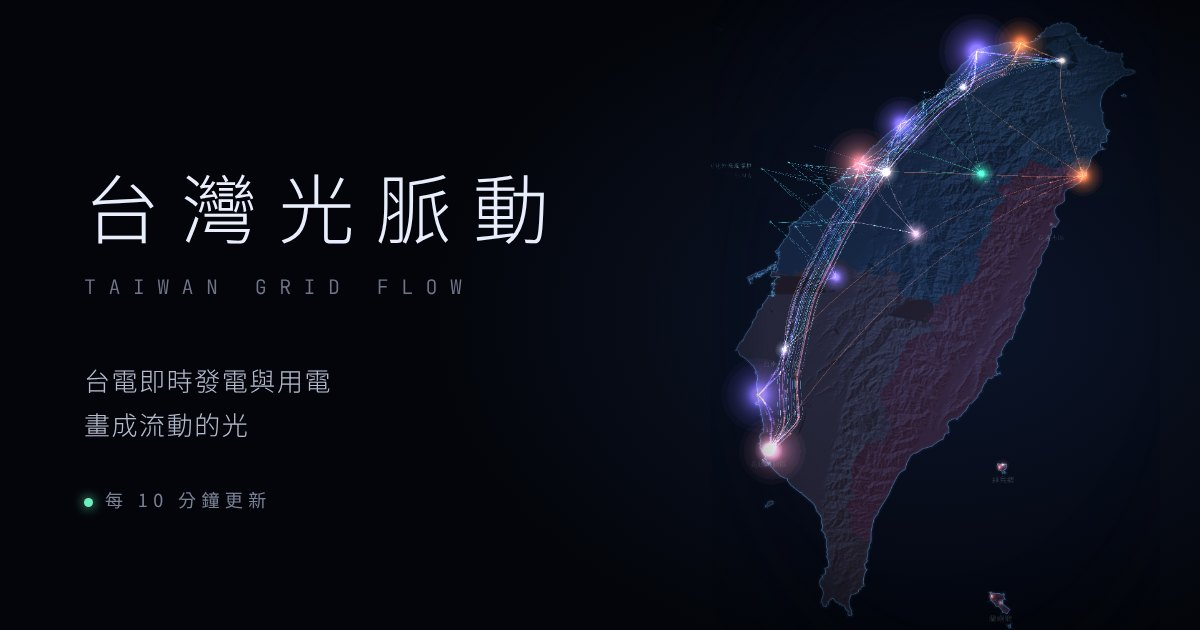
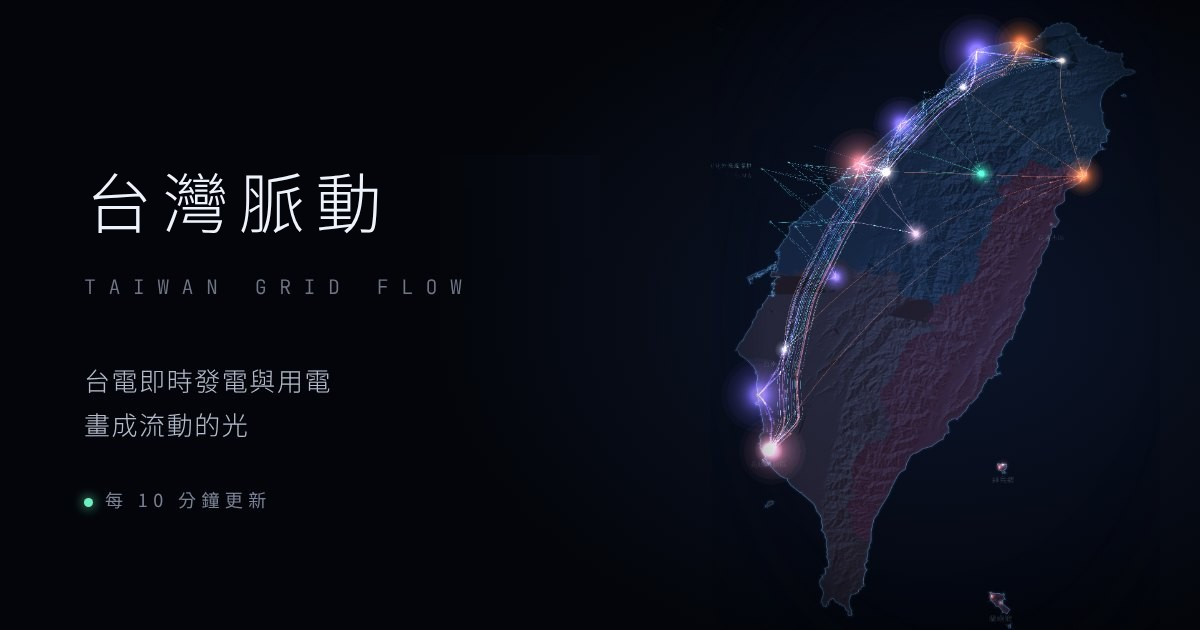
v0.8.53：名稱改「台灣脈動」（網頁、主畫面名稱、分享圖、通知標題；中繼站 v8.10 程式）
Claude-Session: https://claude.ai/code/session_014gXWXz6mvYnkLaWxuaAqJq

Changed region(s): [[0.0617, 0.2714, 0.37, 0.3921], [0.4008, 0.2714, 0.4625, 0.3921]]

diff --git a/tools/cloudflare-worker.js b/tools/cloudflare-worker.js
@@ -1,5 +1,6 @@
 // ─────────────────────────────────────────────────────────────
-//  台灣光脈動 — Cloudflare Worker 中繼站 v8.9
+//  台灣脈動 — Cloudflare Worker 中繼站 v8.10
+//  v8.10：名稱改「台灣脈動」（推播、LINE 訊息）
 //  v8.9：/water/tainan-pipes.json 轉送臺南市「公共管線圖資－給水系統管線」（soa.tainan.gov.tw 擋海外主機；給 Actions 定期轉檔用）
 //  v8.8：低碳時段通知（訂閱 lowc）：每天依昨日燃料別曲線推估 07–22 點最低碳的 2 小時，時段開始時發 App 通知（中英）
 //  v8.7：App 通知依訂閱語言（lang：zh／en）發中文或英文；網頁換語言時會重新登記
@@ -119,11 +120,11 @@ export default {
       const text = `⚡ 今日供電${sup.label}，尖峰預估備轉 ${sup.rate}%（${sup.hours}）。建議尖峰時段減少用電。`;
       if (users.length && !(await env.NOTIFY.get(`${today}:supply`))) {
         const to = users.filter((u) => u.supply !== false).map((u) => u.id);
-        if (await send(env, to, `台灣光脈動 ${text}`)) await env.NOTIFY.put(`${today}:supply`, '1', { expirationTtl: 2 * 86400 });
+        if (await send(env, to, `台灣脈動 ${text}`)) await env.NOTIFY.put(`${today}:supply`, '1', { expirationTtl: 2 * 86400 });
       }
       if (subs.length && !(await env.NOTIFY.get(`${today}:psupply`))) {
         const en = { title: 'Taiwan Grid Flow · Supply alert', body: `⚡ Taiwan’s power supply today: ${sup.labelEn}. Forecast peak operating reserve ${sup.rate}% (${sup.hours}). Please use less power during the peak.` };
-        await pushAll(env, subs.filter((p) => p.alerts !== false), (p) => (p.lang === 'en' ? en : { title: '台灣光脈動・供電提醒', body: text })); // v7：只訂停電提醒的不收
+        await pushAll(env, subs.filter((p) => p.alerts !== false), (p) => (p.lang === 'en' ? en : { title: '台灣脈動・供電提醒', body: text })); // v7：只訂停電提醒的不收
         await env.NOTIFY.put(`${today}:psupply`, '1', { expirationTtl: 2 * 86400 });
       }
     }
@@ -140,7 +141,7 @@ export default {
       if (!win.none && hm >= win.from && hm < win.to) {
         await pushAll(env, lowSubs, (p) => (p.lang === 'en'
           ? { title: 'Taiwan Grid Flow · Low-carbon window', body: `🌿 Electricity should be cleanest from now until about ${win.to} (estimated from the same hours yesterday). A good time for laundry, the dryer or charging.` }
-          : { title: '台灣光脈動・低碳時段', body: `🌿 現在到 ${win.to} 左右電力碳排較低（依昨天同時段推估），適合洗衣、烘衣、充電。` }));
+          : { title: '台灣脈動・低碳時段', body: `🌿 現在到 ${win.to} 左右電力碳排較低（依昨天同時段推估），適合洗衣、烘衣、充電。` }));
         await env.NOTIFY.put(`${today}:plowc`, '1', { expirationTtl: 2 * 86400 });
       }
     }
@@ -159,7 +160,7 @@ export default {
       if (!targets.length || (await env.NOTIFY.get(key))) continue;
       await pushAll(env, targets, (p) => (p.lang === 'en'
         ? { title: 'Taiwan Grid Flow · Air quality', body: `😷 ${x.site} station AQI ${x.aqi} (${AQI_EN[x.status] || x.status}), PM2.5 ${x.pm25 ?? '—'}. Sensitive groups should limit time outdoors; consider a mask.` }
-        : { title: '台灣光脈動・空品提醒', body: aqiText(x) }));
+        : { title: '台灣脈動・空品提醒', body: aqiText(x) }));
       await env.NOTIFY.put(key, '1', { expirationTtl: 2 * 86400 });
     }
 
@@ -169,7 +170,7 @@ export default {
       const ids = users.filter((u) => u.site === site && u.aqi !== false).map((u) => u.id);
       const key = `${today}:aqi:${site}`;
       if (!ids.length || (await env.NOTIFY.get(key))) continue;
-      if (await send(env, ids, `台灣光脈動 ${aqiText(x)}`)) await env.NOTIFY.put(key, '1', { expirationTtl: 2 * 86400 });
+      if (await send(env, ids, `台灣脈動 ${aqiText(x)}`)) await env.NOTIFY.put(key, '1', { expirationTtl: 2 * 86400 });
     }
   }
 };
@@ -277,7 +278,7 @@ async function pushRoute(req, env, name) {
   await kvPutJson(env, key, { sub: { endpoint: sub.endpoint, keys: { p256dh: sub.keys.p256dh, auth: sub.keys.auth } }, site: alerts ? site : null, alerts, town, road, outage, lang, lowc, since: twDate() });
   if (body.test) await pushOne(env, sub, lang === 'en'
     ? { title: 'Taiwan Grid Flow', body: `Notifications are on${site ? ` (${site} station)` : ''}. We’ll let you know when air quality is poor or power supply is tight.` }
-    : { title: '台灣光脈動', body: `App 通知已開啟${site ? `（${site}測站）` : ''}，空品不良或供電吃緊時會通知你。` });
+    : { title: '台灣脈動', body: `App 通知已開啟${site ? `（${site}測站）` : ''}，空品不良或供電吃緊時會通知你。` });
   return json({ ok: true, site, town, outage, lang });
 }
 
@@ -357,7 +358,7 @@ async function verify(env, body, sig) {
   return btoa(String.fromCharCode(...new Uint8Array(mac))) === sig;
 }
 
-const HELP = `台灣光脈動 提醒小幫手 ⚡
+const HELP = `台灣脈動 提醒小幫手 ⚡
 
 📍 傳「測站名稱」登記你家附近的空品測站，例如：西屯、二林、忠明
 
@@ -371,7 +372,7 @@ const HELP = `台灣光脈動 提醒小幫手 ⚡
 ・「停止」不再通知
 
 空品 AQI ≥ 101（對人體有害）或供電非綠燈才通知，每天最多一次，只在 07–22 點發送。
-📲 想收更多免費通知：在光脈搏 App「我的家 → 提醒」開啟 App 通知。`;
+📲 想收更多免費通知：在台灣脈動 App「我的家 → 提醒」開啟 App 通知。`;
 
 async function lineWebhook(req, env, ctx) {
   const body = await req.text();
@@ -587,9 +588,9 @@ async function watchdog(env) {
     }
     const flag = await env.NOTIFY.get(`watch:${k}`);
     if (hit && !flag) {
-      if (await send(env, [env.LINE_TO], `⚠ 台灣光脈動 資料停更：${hit[1]}`)) await env.NOTIFY.put(`watch:${k}`, '1', { expirationTtl: 6 * 3600 });
+      if (await send(env, [env.LINE_TO], `⚠ 台灣脈動 資料停更：${hit[1]}`)) await env.NOTIFY.put(`watch:${k}`, '1', { expirationTtl: 6 * 3600 });
     } else if (!hit && flag) {
-      await send(env, [env.LINE_TO], `✅ 台灣光脈動：${{ grid: '台電機組資料', aqi: '環境部空品', format: '台電資料格式' }[k]}已恢復正常`);
+      await send(env, [env.LINE_TO], `✅ 台灣脈動：${{ grid: '台電機組資料', aqi: '環境部空品', format: '台電資料格式' }[k]}已恢復正常`);
       await env.NOTIFY.delete(`watch:${k}`);
     }
   }
@@ -737,7 +738,7 @@ async function errorAlerts(env) {
     if (g.n < (severe ? 1 : 3)) continue;
     const flag = `erralert:${day}:${k}`;
     if (await env.NOTIFY.get(flag)) continue;
-    const ok = await send(env, [env.LINE_TO], `⚠ 台灣光脈動 網站錯誤（今天 ${g.n} 次）\n版本 v${g.v}・${g.where}・${g.device}\n${g.msg}\n\n傳「錯誤紀錄」看最近 7 天`);
+    const ok = await send(env, [env.LINE_TO], `⚠ 台灣脈動 網站錯誤（今天 ${g.n} 次）\n版本 v${g.v}・${g.where}・${g.device}\n${g.msg}\n\n傳「錯誤紀錄」看最近 7 天`);
     if (ok) await env.NOTIFY.put(flag, '1', { expirationTtl: 2 * 86400 });
   }
 }
@@ -777,7 +778,7 @@ async function feedbackRoute(req, env, ctx) {
   // 每天前 10 則用 LINE 通知管理者（主動推播有每月上限，其餘傳「回饋」查）
   if (env.LINE_TOKEN && env.LINE_TO && n < 10) {
     const info = e.ctx ? `\nv${e.ctx.v}・${e.ctx.device === 'mobile' ? '手機' : '電腦'}・${e.ctx.lang === 'en' ? '英文' : '中文'}${e.ctx.view ? `・${e.ctx.view}` : ''}` : '';
-    ctx.waitUntil(send(env, [env.LINE_TO], `💬 台灣光脈動 意見回饋（${FB_KIND[e.kind]}）\n${text}${e.contact ? `\n聯絡：${e.contact}` : ''}${info}\n\n傳「回饋」看最近 7 天`).catch(() => {}));
+    ctx.waitUntil(send(env, [env.LINE_TO], `💬 台灣脈動 意見回饋（${FB_KIND[e.kind]}）\n${text}${e.contact ? `\n聯絡：${e.contact}` : ''}${info}\n\n傳「回饋」看最近 7 天`).catch(() => {}));
   }
   return json({ ok: true });
 }
@@ -824,8 +825,8 @@ async function errorSummary(env, days) {
  *  GitHub Actions 每小時用真實資料打開網站；失敗才呼叫 /alert?type=site
  *  只接受固定幾種類型、訊息內容寫死在這裡；同一類型 3 小時內只通知一次 */
 const ALERTS = {
-  site: '⚠ 台灣光脈動 每小時檢查失敗：正式網站用真實資料打開時出錯，詳見 GitHub Actions「健康檢查」',
-  data: '⚠ 台灣光脈動 每小時檢查：網站上的台電資料超過 1 小時沒更新，詳見 GitHub Actions「健康檢查」'
+  site: '⚠ 台灣脈動 每小時檢查失敗：正式網站用真實資料打開時出錯，詳見 GitHub Actions「健康檢查」',
+  data: '⚠ 台灣脈動 每小時檢查：網站上的台電資料超過 1 小時沒更新，詳見 GitHub Actions「健康檢查」'
 };
 async function alertRoute(url, env) {
   const type = url.searchParams.get('type');
@@ -933,7 +934,7 @@ async function outageDaily(env) {
       const where = `${p.town}${roads.length ? ` ${roads.slice(0, 4).join('、')}${roads.length > 4 ? ` 等 ${roads.length} 處` : ''}` : ''}`;
       await pushOne(env, p.sub, p.lang === 'en'
         ? { title: 'Taiwan Grid Flow · Planned outage', body: `${n === 1 ? 'Tomorrow' : 'In 3 days'}, ${'Sun Mon Tue Wed Thu Fri Sat'.split(' ')[wd]} ${md}, ${times}: planned power outage in ${p.town}${roads.length ? ` (${roads.slice(0, 4).join(', ')}${roads.length > 4 ? ` and ${roads.length - 4} more` : ''})` : ''}. Taipower’s notice is authoritative; call 1911 for details.` }
-        : { title: '台灣光脈動・計畫停電提醒', body: `${when}，${where}有計畫性停電（${hits[0].office}）。實際範圍以台電通知為準，可撥 1911 查詢。` });
+        : { title: '台灣脈動・計畫停電提醒', body: `${when}，${where}有計畫性停電（${hits[0].office}）。實際範圍以台電通知為準，可撥 1911 查詢。` });
     }
   }
 }

diff --git a/index.html b/index.html
@@ -4,19 +4,19 @@
     <meta charset="UTF-8" />
     <meta name="viewport" content="width=device-width, initial-scale=1, viewport-fit=cover, user-scalable=no" />
     <meta name="theme-color" content="#03050a" />
-    <meta name="description" content="台灣光脈動：台電即時發電與用電，畫成流動的光。每 10 分鐘更新。" />
+    <meta name="description" content="台灣脈動：台電即時發電與用電，畫成流動的光。每 10 分鐘更新。" />
     <meta name="apple-mobile-web-app-capable" content="yes" />
     <meta name="mobile-web-app-capable" content="yes" />
     <meta name="apple-mobile-web-app-status-bar-style" content="black-translucent" />
-    <meta name="apple-mobile-web-app-title" content="光脈動" />
+    <meta name="apple-mobile-web-app-title" content="台灣脈動" />
     <link rel="manifest" href="./manifest.webmanifest" />
     <link rel="icon" type="image/png" sizes="192x192" href="./icon-192.png" />
     <link rel="apple-touch-icon" href="./apple-touch-icon.png" />
-    <title>台灣光脈動 · Taiwan Grid Flow</title>
+    <title>台灣脈動 · Taiwan Grid Flow</title>
     <!-- 分享到 LINE／Facebook／X 時的預覽 -->
     <meta property="og:type" content="website" />
-    <meta property="og:site_name" content="台灣光脈動" />
-    <meta property="og:title" content="台灣光脈動 · Taiwan Grid Flow" />
+    <meta property="og:site_name" content="台灣脈動" />
+    <meta property="og:title" content="台灣脈動 · Taiwan Grid Flow" />
     <meta property="og:description" content="台電即時發電與用電，畫成流動的光。每 10 分鐘更新。" />
     <meta property="og:url" content="https://willy110611-collab.github.io/taiwan-grid-flow/" />
     <meta property="og:image" content="https://willy110611-collab.github.io/taiwan-grid-flow/og-image.jpg" />
@@ -59,7 +59,7 @@
         <path d="M184.6 36.7L177.6 41.3L171.9 50.8L171.1 58.5L173.0 63.4L173.2 69.4L174.8 73.3L177.3 75.0L176.1 75.3L176.0 81.9L173.0 83.8L175.1 86.9L171.3 88.8L169.6 91.6L166.8 104.3L164.2 109.0L156.9 115.6L156.9 121.5L152.8 126.0L152.8 129.7L155.5 134.1L151.8 139.0L150.9 149.3L146.5 163.3L142.2 183.0L143.2 186.3L138.8 202.8L135.8 206.2L134.6 212.4L132.5 214.5L132.8 221.5L135.0 222.4L129.4 225.6L125.8 235.6L120.7 243.9L117.5 248.6L113.7 250.0L114.5 255.4L112.3 259.1L98.5 269.4L86.5 301.5L85.8 322.1L87.2 324.4L87.1 331.7L82.1 336.3L81.6 339.4L84.0 344.9L82.5 345.4L79.9 341.6L74.6 339.1L72.3 343.1L69.6 341.6L70.0 337.1L67.3 332.5L70.1 324.5L63.2 304.4L58.2 298.1L46.6 291.1L44.2 288.2L40.8 287.3L34.4 282.7L34.7 281.6L33.2 283.5L31.0 280.6L34.0 282.2L28.0 273.2L28.7 266.6L24.3 254.6L22.0 253.6L23.6 252.7L19.1 237.5L7.0 228.2L16.6 196.5L18.9 197.0L19.6 195.7L18.3 194.4L18.5 189.5L16.8 189.8L18.8 185.9L20.1 185.8L15.5 185.5L15.5 183.3L17.9 183.2L18.3 181.8L17.2 171.5L16.0 172.9L15.1 171.6L19.8 160.8L18.9 156.5L20.2 154.3L27.9 145.6L30.5 139.5L35.3 133.4L35.7 129.0L39.8 126.2L43.5 116.7L47.5 113.6L52.5 103.4L65.5 86.6L70.1 74.9L75.9 68.7L79.9 67.7L83.0 64.7L86.8 58.5L86.3 55.8L88.2 49.6L90.9 47.8L100.9 30.6L118.1 22.7L126.1 22.6L131.8 20.2L137.6 9.7L145.3 5.0L152.7 7.2L157.5 14.7L160.4 13.2L158.9 16.0L161.0 18.5L170.0 20.1L169.7 21.4L171.8 21.4L171.5 22.9L180.9 22.0L179.9 26.5L181.5 31.4L188.4 33.8L184.6 36.7Z" />
         <path class="spine" d="M66 300 C 50 270, 38 235, 42 200 S 66 120, 104 66 S 148 30, 166 24" />
       </svg>
-      <div class="zh">台灣光脈動</div>
+      <div class="zh">台灣脈動</div>
       <div class="en">TAIWAN GRID FLOW</div>
       <div class="st" id="splash-st">連線台電即時資料…</div>
     </div>

diff --git a/src/data/useHome.js b/src/data/useHome.js
@@ -56,7 +56,7 @@ export function locate(setHome) {
 }
 
 /**
- * 網頁通知：開著光脈動（含桌布、手機加到主畫面）時，事件發生就跳系統通知。
+ * 網頁通知：開著台灣脈動（含桌布、手機加到主畫面）時，事件發生就跳系統通知。
  * 每種事件每天最多一次。完全關閉 App 後的提醒請用 LINE（Cloudflare 排程）。
  */
 export function useNotify(enabled, events) {
@@ -72,7 +72,7 @@ export function useNotify(enabled, events) {
       if (sent.current.has(key) || stored) continue;
       sent.current.add(key);
       try { localStorage.setItem(`tgf-notified-${key}`, '1'); } catch { /* 略 */ }
-      try { new Notification('台灣光脈動', { body: ev.text, icon: './icon-192.png', tag: ev.kind }); } catch { /* 部分瀏覽器只允許 Service Worker 通知 */ }
+      try { new Notification('台灣脈動', { body: ev.text, icon: './icon-192.png', tag: ev.kind }); } catch { /* 部分瀏覽器只允許 Service Worker 通知 */ }
     }
   }, [enabled, events]);
 }
@@ -90,7 +90,7 @@ const urlB64 = (s) => Uint8Array.from(atob(s.replace(/-/g, '+').replace(/_/g, '/
 
 export function pushSupport() {
   if (!('serviceWorker' in navigator)) return { ok: false, why: '此瀏覽器不支援 App 通知' };
-  if (isIOS() && !standalone()) return { ok: false, why: 'iPhone 要先用 Safari「分享 → 加入主畫面」，再從主畫面打開光脈動開啟（iOS 16.4 以上）', ios: true };
+  if (isIOS() && !standalone()) return { ok: false, why: 'iPhone 要先用 Safari「分享 → 加入主畫面」，再從主畫面打開台灣脈動開啟（iOS 16.4 以上）', ios: true };
   if (!('PushManager' in window) || typeof Notification === 'undefined') return { ok: false, why: '此瀏覽器不支援 App 通知' };
   return { ok: true };
 }

diff --git a/src/i18n.js b/src/i18n.js
@@ -130,7 +130,7 @@ const EN = {
   '通知權限未允許': 'Notification permission not granted', '通知服務暫時無法使用，請稍後再試': 'Notifications are temporarily unavailable; please try again later',
   '通知權限未允許（可到手機設定 → 通知 開啟）': 'Notification permission not granted (enable it in your phone’s Settings → Notifications)',
   '此瀏覽器不支援 App 通知': 'This browser does not support app notifications',
-  'iPhone 要先用 Safari「分享 → 加入主畫面」，再從主畫面打開光脈動開啟（iOS 16.4 以上）': 'On iPhone, use Safari Share → Add to Home Screen first, then open the app from the Home Screen to turn this on (iOS 16.4+)',
+  'iPhone 要先用 Safari「分享 → 加入主畫面」，再從主畫面打開台灣脈動開啟（iOS 16.4 以上）': 'On iPhone, use Safari Share → Add to Home Screen first, then open the app from the Home Screen to turn this on (iOS 16.4+)',
   '示範模式（模擬資料）': 'Demo mode (simulated data)',
   '日射量資料不足或過舊': 'Solar radiation data missing or stale',
   '讀不到最新 · 顯示': 'No new data · showing', '電廠': 'Plants', '更多': 'More', '店家用電試算': 'Shop energy', '今日紀錄': 'Today’s records', '收集成就': 'Collectibles', '說明・資料來源': 'Guide & sources', '電腦版': 'Desktop', '線路：示意': 'Lines: schematic', '背景音：開': 'Sound: on', '背景音：關': 'Sound: off', '震動：開': 'Vibration: on', '震動：關': 'Vibration: off', '意見回饋': 'Feedback', '線路：真實': 'Lines: real', '光流路線：真實輸電線（OpenStreetMap）或示意光纖': 'Flow routes: real transmission lines (OpenStreetMap) or schematic',

diff --git a/src/components/Life.jsx b/src/components/Life.jsx
@@ -245,7 +245,7 @@ export function HomePanel({ home, setHome, sum, advice, snapshot, air, onPick, o
             <span>{tx('低碳時段開始時也通知（每天一次，依昨天同時段推估最低碳的 2 小時）', 'Also notify when the low-carbon window starts (once a day; the cleanest 2 hours estimated from yesterday)')}</span>
           </label>
         )}
-        {!home.push && pushSupport().ios && <p className="fine">{tx('iPhone：Safari「分享 → 加入主畫面」後，從主畫面打開光脈動再開啟這個開關。', 'iPhone: in Safari tap Share → Add to Home Screen, open the app from the Home Screen, then turn this on.')}</p>}
+        {!home.push && pushSupport().ios && <p className="fine">{tx('iPhone：Safari「分享 → 加入主畫面」後，從主畫面打開台灣脈動再開啟這個開關。', 'iPhone: in Safari tap Share → Add to Home Screen, open the app from the Home Screen, then turn this on.')}</p>}
 
         {/* LINE */}
         {line?.lineFriendUrl && (
@@ -267,7 +267,7 @@ export function HomePanel({ home, setHome, sum, advice, snapshot, air, onPick, o
               try { await requestNotify(); setHome({ notify: true }); setMsg(''); } catch (err) { setMsg(tr(err.message)); }
             }}
           />
-          <span>{tx('開著光脈動時另外提醒：機組異常、低碳時段開始', 'While the app is open, also alert me to unit anomalies and the start of low-carbon periods')}</span>
+          <span>{tx('開著台灣脈動時另外提醒：機組異常、低碳時段開始', 'While the app is open, also alert me to unit anomalies and the start of low-carbon periods')}</span>
         </label>
       </section>
     </Panel>

diff --git a/src/components/Hud.jsx b/src/components/Hud.jsx
@@ -114,7 +114,7 @@ export default function Hud({ snapshot, ui, waterUi, setUi, highlights, daylight
     <div className={`hud ${wallpaper ? 'is-wallpaper' : ''} ${W ? 'water-mode' : ''}`}>
       {!wallpaper && waterUi?.enabled && <ModeSwitch water={W} onChange={(on) => { setMore(false); waterUi.setWater(on); }} />}
       <header className="brand">
-        <div className="brand-zh">台灣光脈動</div>
+        <div className="brand-zh">台灣脈動</div>
         <div className="brand-en">TAIWAN GRID FLOW</div>
         <div className={`badge ${live ? 'live' : 'sim'}`}>
           <i />
@@ -128,7 +128,7 @@ export default function Hud({ snapshot, ui, waterUi, setUi, highlights, daylight
         )}
         {!wallpaper && <RefreshBtn />}
         {!wallpaper && live && !replay?.on && Number.isFinite(snapshot?.online) && snapshot.online > 0 && (
-          <div className="online-count" title={tx('最近 12 分鐘有開著光脈動的分頁數', 'Tabs with Taiwan Grid Flow open in the last 12 minutes')}>
+          <div className="online-count" title={tx('最近 12 分鐘有開著台灣脈動的分頁數', 'Tabs with Taiwan Grid Flow open in the last 12 minutes')}>
             {snapshot.online === 1 ? tx('目前只有你在線', 'Only you online') : tx(`${snapshot.online.toLocaleString()} 人同時在線`, `${snapshot.online.toLocaleString()} online now`)}
           </div>
         )}

diff --git a/src/components/Extras.jsx b/src/components/Extras.jsx
@@ -110,7 +110,7 @@ export function BadgePanel({ badges, live, onClose }) {
   const { earned, progress } = badges;
   const count = BADGES.filter((b) => earned[b.id]).length;
   const toggle = (id) => { setHover(null); setSel((cur) => (cur === id ? null : id)); };
-  const groups = [['grid', tx('電網徽章', 'Grid badges'), tx('真實電網出現這個狀態的當下打開才拿得到', 'Earned only when the real grid is in that state while the app is open')], ['explore', tx('探索徽章', 'Explorer badges'), tx('使用光脈動的各種方式', 'Ways to use the app')]];
+  const groups = [['grid', tx('電網徽章', 'Grid badges'), tx('真實電網出現這個狀態的當下打開才拿得到', 'Earned only when the real grid is in that state while the app is open')], ['explore', tx('探索徽章', 'Explorer badges'), tx('使用台灣脈動的各種方式', 'Ways to use the app')]];
   return (
     <Panel title="徽章簿" meta={`${count} / ${BADGES.length}`} onClose={onClose}>
       {!live && <p className="fine warm">{tx('目前是模擬資料，電網徽章暫停頒發（接上台電即時資料後才會取得）。', 'Simulated data — grid badges are paused until live Taipower data is connected.')}</p>}

diff --git a/public/sw.js b/public/sw.js
@@ -1,6 +1,6 @@
 // 離線快取：頁面與程式用「先上網、失敗再用快取」，所以一鍵更新後重開就是新版。
 // 電力資料（data/、taipower/）永遠走網路，不快取，避免看到舊數字。
-const CACHE = 'tgf-v0.8.52';
+const CACHE = 'tgf-v0.8.53';
 const SHELL = ['./', './index.html', './manifest.webmanifest', './icon-192.png', './icon-512.png', './apple-touch-icon.png'];
 self.addEventListener('install', (e) => {
   // 連同首頁用到的程式檔一起先存好 → 第二次打開就完全不用下載
@@ -56,7 +56,7 @@ self.addEventListener('fetch', (e) => {
 
 // ── App 通知（Web Push）：中繼站在空品不良、供電吃緊時送來 ──
 self.addEventListener('push', (e) => {
-  let msg = { title: '台灣光脈動', body: '' };
+  let msg = { title: '台灣脈動', body: '' };
   try { msg = { ...msg, ...e.data.json() }; } catch { if (e.data) msg.body = e.data.text(); }
   e.waitUntil(self.registration.showNotification(msg.title, {
     body: msg.body, icon: './icon-192.png', badge: './icon-192.png', tag: msg.tag || msg.title, renotify: true

diff --git a/src/components/Plant.jsx b/src/components/Plant.jsx
@@ -38,7 +38,7 @@ export function PlantPanel({ id, snapshot, air, rows, onClose }) {
   const peak = series.reduce((a, x) => (x.mw > (a?.mw ?? -1) ? x : a), null);
   const low = series.reduce((a, x) => (x.mw < (a?.mw ?? Infinity) ? x : a), null);
   const share = async () => {
-    const r = await shareLink(plantLink(id), `${cfg.name}｜台灣光脈動`);
+    const r = await shareLink(plantLink(id), `${cfg.name}｜台灣脈動`);
     setMsg(r === 'copied' ? tx('已複製連結', 'Link copied') : r === 'failed' ? tx('無法分享，請手動複製網址', 'Could not share; copy the address manually') : '');
   };
   const s = snapshot?.plants?.find((p) => p.id === id);

diff --git a/src/components/Panels.jsx b/src/components/Panels.jsx
@@ -409,7 +409,7 @@ export function InfoPanel({ snapshot, air, sun, onClose, initialTab, power = 'au
           </dl>
           {APP.donate?.some((d) => d.url) && (
             <div className="donate">
-              <p>☕ 喜歡光脈動的話，可以請無聊的人喝杯咖啡，支持伺服器與資料費用 🙏</p>
+              <p>☕ 喜歡台灣脈動的話，可以請無聊的人喝杯咖啡，支持伺服器與資料費用 🙏</p>
               <div className="donate-btns">
                 {APP.donate.filter((d) => d.url).map((d) => (
                   <a key={d.url} className="donate-btn" href={d.url} target="_blank" rel="noreferrer">{d.label}</a>

diff --git a/src/data/badges.js b/src/data/badges.js
@@ -109,7 +109,7 @@ export const BADGES = [
   },
   {
     id: 'streak-7', name: '連續觀測', kind: 'explore', rarity: '少見', color: [255, 150, 92],
-    desc: '連續 7 天打開光脈動。', hint: '每天來看一眼',
+    desc: '連續 7 天打開台灣脈動。', hint: '每天來看一眼',
     nameEn: 'Streak Watcher', descEn: `Open the app 7 days in a row.`, hintEn: 'Take a look every day',
     glyph: 'M12 3c3 4 5 6 5 10a5 5 0 0 1-10 0c0-2 1-3.5 2-4.5 0 2 1 3.5 2 3.5 0-3-1-6 1-9z',
     check: ({ progress }) => streak(progress.days || []) >= 7,

diff --git a/src/components/Finder.jsx b/src/components/Finder.jsx
@@ -60,7 +60,7 @@ export function FinderPanel({ snapshot, onOpen, getView, onClose }) {
   const share = async () => {
     const v = getView?.();
     if (!v) return;
-    const r = await shareLink(viewLink(v), '台灣光脈動');
+    const r = await shareLink(viewLink(v), '台灣脈動');
     setMsg(r === 'copied' ? tx('已複製目前畫面的連結', 'Link to this view copied') : r === 'shared' ? '' : r === 'failed' ? tx('無法分享，請手動複製網址', 'Could not share; copy the address manually') : '');
   };
 
